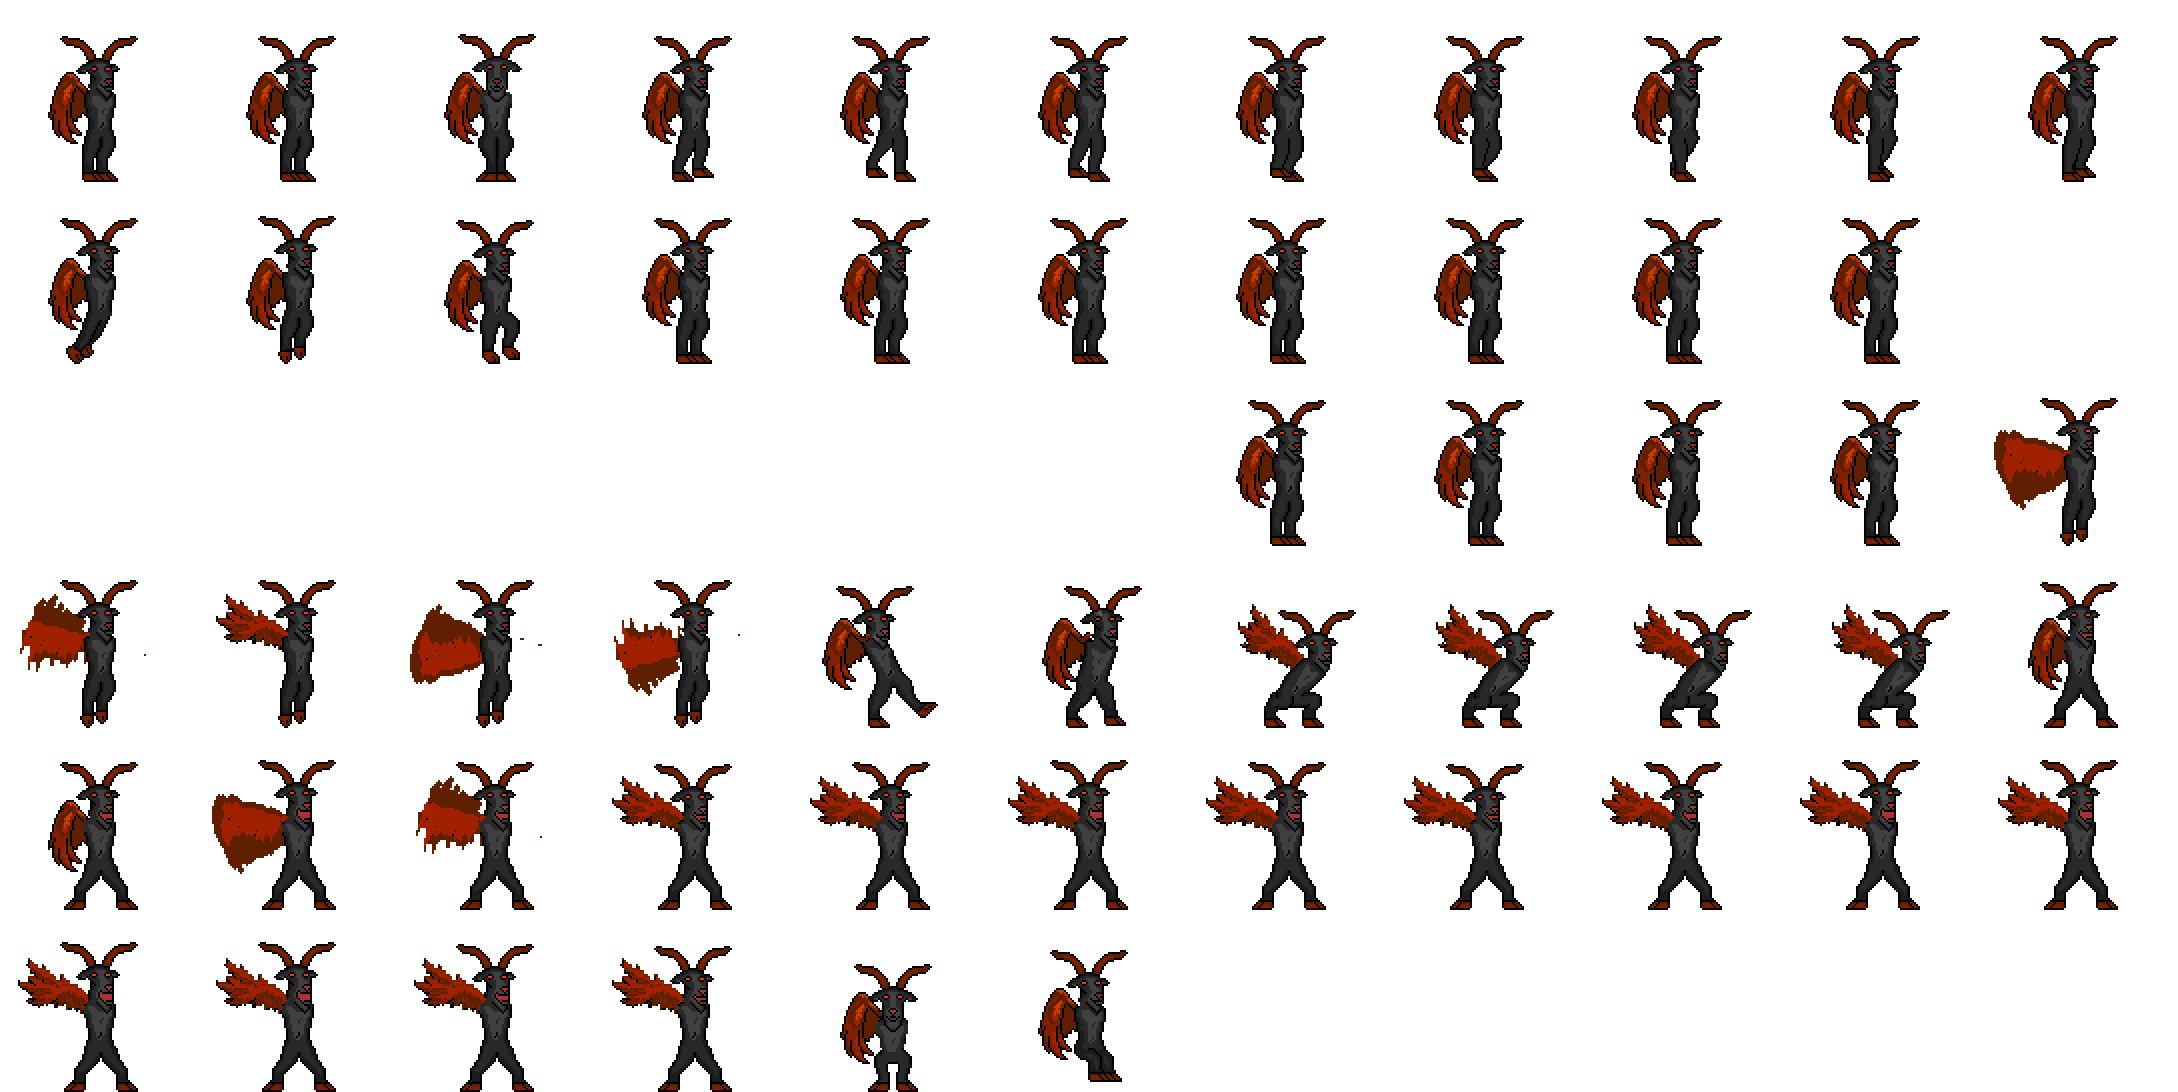
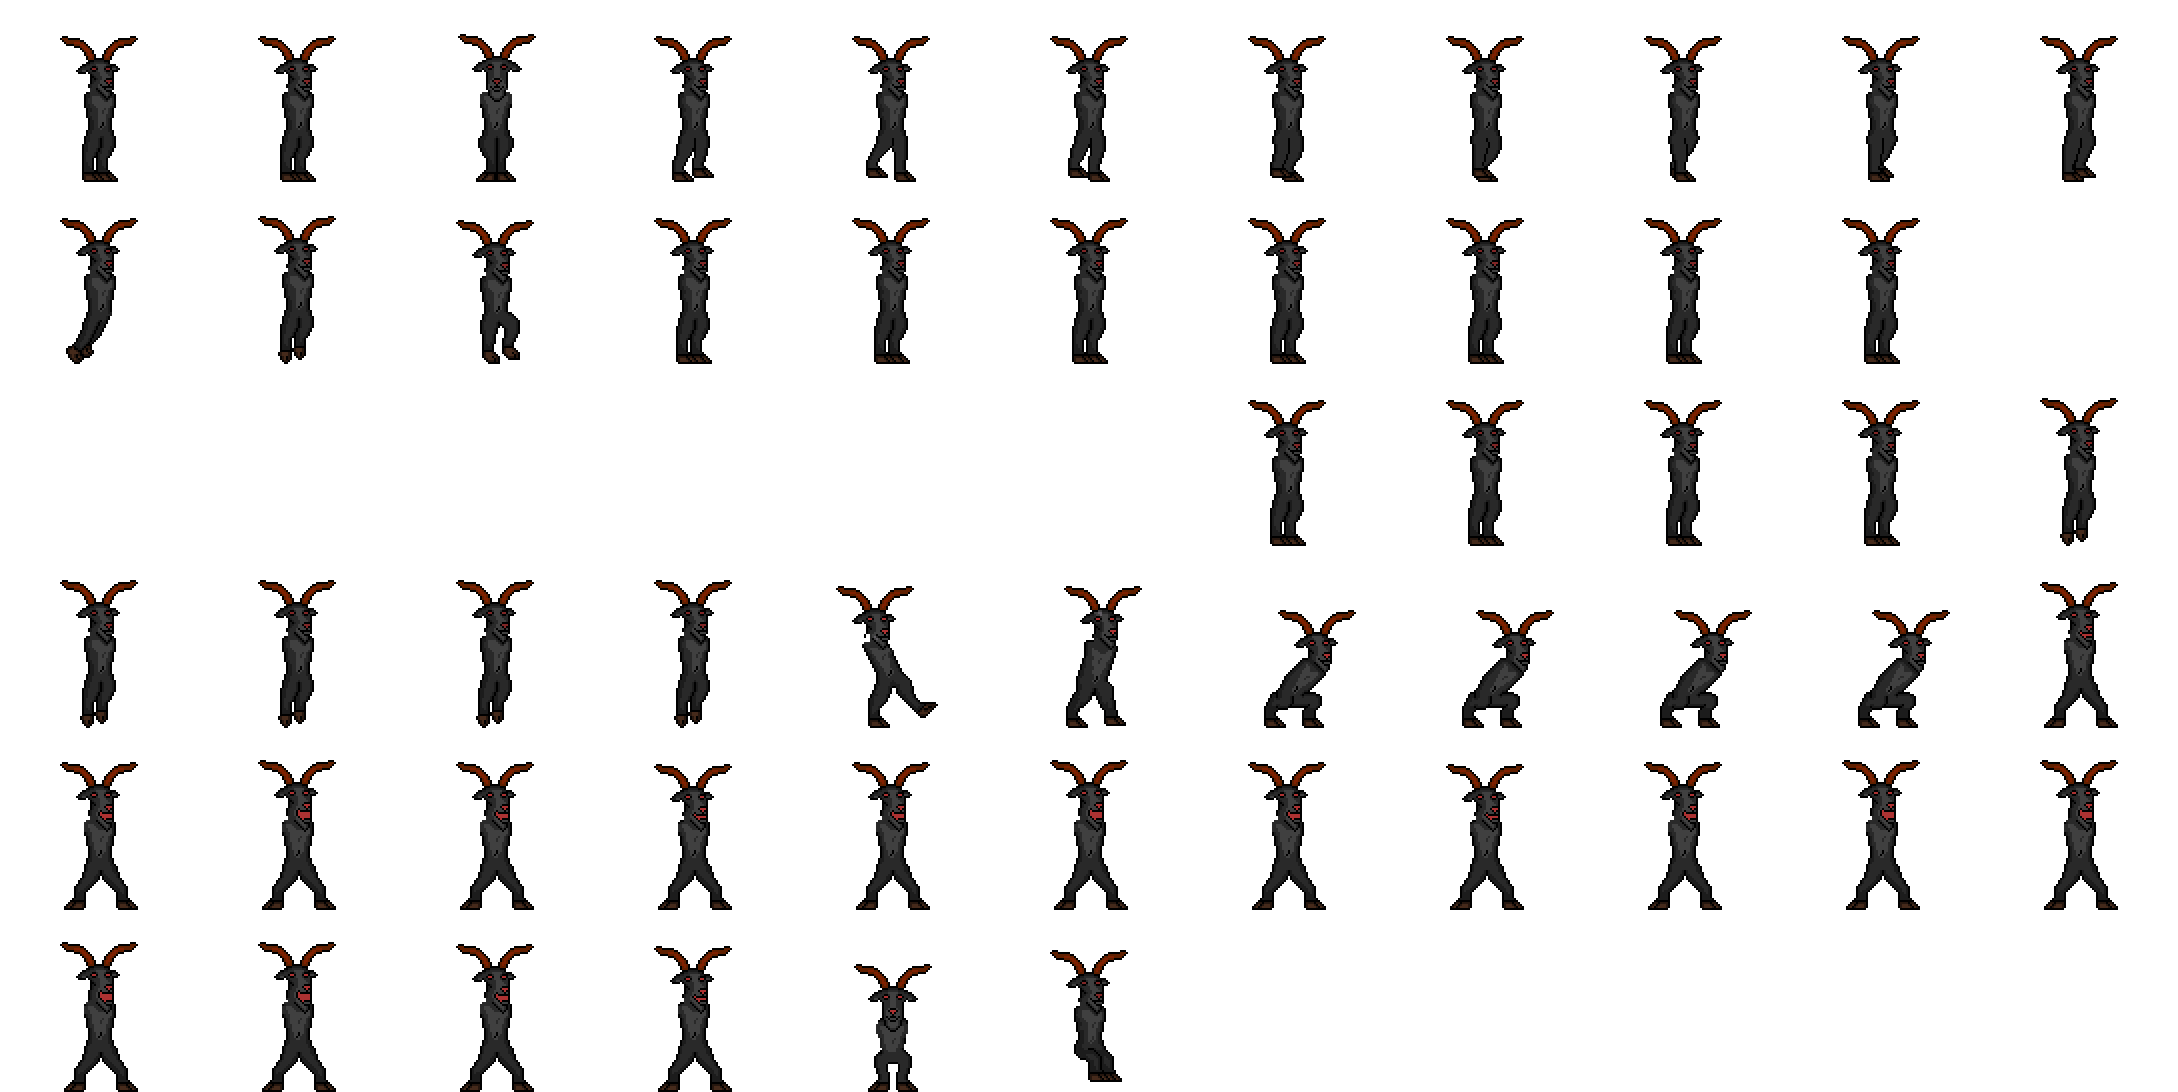
Changed Bapha's drawing scripts, and splitted his awakened glow effects from his body sprites. Fixed fire effect issue. He can now also hold items on his hand while doing animations.

diff --git a/Companions/Creatures/Bapha/BaphaBase.cs b/Companions/Creatures/Bapha/BaphaBase.cs
@@ -11,8 +11,10 @@ namespace giantsummon.Companions
     public class BaphaBase : GuardianBase
     {
         private const int DownedFrameID = 21, RevivingFrameID = 28;
-        private const string HellGateSpriteID = "hellgate", FireEffectsTextureID = "firefxs";
+        private const string HellGateSpriteID = "hellgate", FireEffectsTextureID = "firefxs", CrimsonFireEffectsTextureID = "crimfirefx";
         private const string RightWingTextureID = "rwing";
+        private const string AwakenedBodyTextureID = "aw_body", AwakenedBodyGlowTextureID = "aw_body_glow", AwakenedLeftArmGlowTextureID = "aw_leftarm", AwakenedRightArmGlowTextureID = "aw_rightarm", 
+            AwakenedBodyFrontGlowTextureID = "aw_bodyfront", AwakenedRightArmFrontGlowTextureID = "aw_rightarmfront", AwakenedWingRightTextureID = "aw_rwing";
         private const int HellGateAnimationFrameTime = 8;
         private const byte CrimsonFlameID = 0;
 
@@ -48,8 +50,8 @@ namespace giantsummon.Companions
             ReverseMount = false;
             DrinksBeverage = false;
             SpecialAttackBasedCombat = true;
-            UsesRightHandByDefault = true;
-            ForceWeaponUseOnMainHand = true;
+            //UsesRightHandByDefault = true;
+            //ForceWeaponUseOnMainHand = true;
             CompanionContributorName = "Smokey";
             SetTerraGuardian();
             VladimirBase.AddCarryBlacklist(Bapha);
@@ -134,12 +136,21 @@ namespace giantsummon.Companions
         {
             sprites.AddExtraTexture(HellGateSpriteID, "hell_gate");
             sprites.AddExtraTexture(RightWingTextureID, "wing_r");
-            sprites.AddExtraTexture(FireEffectsTextureID, "fire_effects");
+            sprites.AddExtraTexture(FireEffectsTextureID, "fire_and_despawn_effect");
+            sprites.AddExtraTexture(CrimsonFireEffectsTextureID, "crimson_fire");
+            //
+            sprites.AddExtraTexture(AwakenedBodyTextureID, "aw_body");
+            sprites.AddExtraTexture(AwakenedBodyGlowTextureID, "aw_body_glow");
+            sprites.AddExtraTexture(AwakenedLeftArmGlowTextureID, "aw_left_arm_glow");
+            sprites.AddExtraTexture(AwakenedRightArmGlowTextureID, "aw_right_arm_glow");
+            sprites.AddExtraTexture(AwakenedBodyFrontGlowTextureID, "aw_body_front_glow");
+            sprites.AddExtraTexture(AwakenedRightArmFrontGlowTextureID, "aw_right_arm_front_glow");
+            sprites.AddExtraTexture(AwakenedWingRightTextureID, "aw_wing_r");
         }
 
         public override void GuardianAnimationOverride(TerraGuardian guardian, byte BodyPartID, ref int Frame)
         {
-            if (guardian.SittingOnPlayerMount)
+            if (guardian.SittingOnPlayerMount || (BodyPartID == 1 && TerraGuardian.UsingLeftArmAnimation) || (BodyPartID == 2 && TerraGuardian.UsingRightArmAnimation))
                 return;
             if (guardian.Velocity.Y != 0 && guardian.WingMaxFlightTime == 0)
             {
@@ -227,9 +238,41 @@ namespace giantsummon.Companions
                     TerraGuardian.DrawFront.Add(gdd);
                 }
             }*/
-            gdd = new GuardianDrawData(GuardianDrawData.TextureType.TGExtra, sprites.GetExtraTexture(RightWingTextureID), DrawPosition, guardian.GetAnimationFrameRectangle(guardian.BodyAnimationFrame),
-                color, Rotation, Origin, Scale, seffect);
-            TerraGuardian.DrawBehind.Insert(0, gdd);
+            bool Awakened = false;
+            if (Awakened)
+            {
+                ReplaceTexture(GuardianDrawData.TextureType.TGBody, sprites.GetExtraTexture(AwakenedBodyTextureID));
+                gdd = new GuardianDrawData(GuardianDrawData.TextureType.TGExtra, sprites.GetExtraTexture(AwakenedBodyGlowTextureID), DrawPosition,
+                    guardian.GetAnimationFrameRectangle(guardian.BodyAnimationFrame), Color.White, Rotation, Origin, Scale, seffect);
+                InjectTextureAfter(GuardianDrawData.TextureType.TGBody, gdd);
+                gdd = new GuardianDrawData(GuardianDrawData.TextureType.TGExtra, sprites.GetExtraTexture(AwakenedLeftArmGlowTextureID), DrawPosition, 
+                    guardian.GetAnimationFrameRectangle(guardian.LeftArmAnimationFrame),  Color.White, Rotation, Origin, Scale, seffect);
+                InjectTextureAfter(GuardianDrawData.TextureType.TGLeftArm, gdd);
+                gdd = new GuardianDrawData(GuardianDrawData.TextureType.TGExtra, sprites.GetExtraTexture(AwakenedRightArmGlowTextureID), DrawPosition,
+                    guardian.GetAnimationFrameRectangle(guardian.RightArmAnimationFrame), Color.White, Rotation, Origin, Scale, seffect);
+                InjectTextureAfter(GuardianDrawData.TextureType.TGRightArm, gdd);
+                if (guardian.Base.BodyFrontFrameSwap.ContainsKey(guardian.BodyAnimationFrame))
+                {
+                    gdd = new GuardianDrawData(GuardianDrawData.TextureType.TGExtra, sprites.GetExtraTexture(AwakenedBodyFrontGlowTextureID), DrawPosition,
+                        guardian.GetAnimationFrameRectangle(guardian.Base.BodyFrontFrameSwap[guardian.BodyAnimationFrame]), Color.White, Rotation, Origin, Scale, seffect);
+                    InjectTextureAfter(GuardianDrawData.TextureType.TGBodyFront, gdd);
+                }
+                if (guardian.Base.RightArmFrontFrameSwap.ContainsKey(guardian.RightArmAnimationFrame))
+                {
+                    gdd = new GuardianDrawData(GuardianDrawData.TextureType.TGExtra, sprites.GetExtraTexture(AwakenedRightArmFrontGlowTextureID), DrawPosition,
+                        guardian.GetAnimationFrameRectangle(guardian.Base.RightArmFrontFrameSwap[guardian.RightArmAnimationFrame]), Color.White, Rotation, Origin, Scale, seffect);
+                    InjectTextureAfter(GuardianDrawData.TextureType.TGRightArmFront, gdd);
+                }
+                gdd = new GuardianDrawData(GuardianDrawData.TextureType.TGExtra, sprites.GetExtraTexture(AwakenedWingRightTextureID), DrawPosition, guardian.GetAnimationFrameRectangle(guardian.BodyAnimationFrame),
+                    Color.White, Rotation, Origin, Scale, seffect);
+                TerraGuardian.DrawBehind.Insert(0, gdd);
+            }
+            else
+            {
+                gdd = new GuardianDrawData(GuardianDrawData.TextureType.TGExtra, sprites.GetExtraTexture(RightWingTextureID), DrawPosition, guardian.GetAnimationFrameRectangle(guardian.BodyAnimationFrame),
+                    color, Rotation, Origin, Scale, seffect);
+                TerraGuardian.DrawBehind.Insert(0, gdd);
+            }
             byte FlamesEffect = 255;
             if(guardian.KnockedOut && guardian.BodyAnimationFrame == 28)
             {
@@ -237,13 +280,13 @@ namespace giantsummon.Companions
                 TerraGuardian.DrawBehind.Clear();
                 return;
             }
-            if (guardian.BodyAnimationFrame >= 14 && guardian.BodyAnimationFrame < 18)
+            if (guardian.LeftArmAnimationFrame >= 14 && guardian.LeftArmAnimationFrame < 18)
             {
-                FlamesEffect = (byte)(guardian.BodyAnimationFrame - 14);
+                FlamesEffect = (byte)(guardian.LeftArmAnimationFrame - 14);
             }
             else if (guardian.BodyAnimationFrame >= 28 && guardian.BodyAnimationFrame < 33)
             {
-                FlamesEffect = (byte)(guardian.BodyAnimationFrame - 28 + 10);
+                FlamesEffect = (byte)(guardian.LeftArmAnimationFrame - 28 + 10);
             }
             else if (guardian.BodyAnimationFrame >= 21 && guardian.BodyAnimationFrame < 29)
             {
@@ -251,8 +294,8 @@ namespace giantsummon.Companions
             }
             if(FlamesEffect < 255)
             {
-                gdd = new GuardianDrawData(GuardianDrawData.TextureType.TGExtra, sprites.GetExtraTexture(FireEffectsTextureID), DrawPosition, guardian.GetAnimationFrameRectangle(FlamesEffect),
-                    Color.White, Rotation, Origin, Scale, seffect);
+                gdd = new GuardianDrawData(GuardianDrawData.TextureType.TGExtra, sprites.GetExtraTexture(Awakened && FlamesEffect < 4 ? CrimsonFireEffectsTextureID : FireEffectsTextureID), DrawPosition, 
+                    guardian.GetAnimationFrameRectangle(FlamesEffect), Color.White, Rotation, Origin, Scale, seffect);
                 InjectTextureAfter(GuardianDrawData.TextureType.TGLeftArm, gdd);
             }
         }

diff --git a/Companions/Creatures/Bapha/FireballAttack.cs b/Companions/Creatures/Bapha/FireballAttack.cs
@@ -26,6 +26,11 @@ namespace giantsummon.Companions.Bapha
 
         public override void Update(TerraGuardian tg, GuardianSpecialAttackData data)
         {
+            tg.ShowOffHand = false;
+            if(data.Step < 4)
+            {
+                Lighting.AddLight(tg.CenterPosition, Vector3.One);
+            }
             if (data.FirstFrame)
             {
                 if (data.Step == 4)
@@ -39,9 +44,11 @@ namespace giantsummon.Companions.Bapha
                     if (ArmAngle < -0.75f)
                         FrameID = 0;
                     else if (ArmAngle > 0.6f)
-                        FrameID = 2;
-                    else
+                        FrameID = 3;
+                    else if (ArmAngle >= -0.2f)
                         FrameID = 1;
+                    else
+                        FrameID = 2;
                     //
                     int BackupFrame = tg.LeftArmAnimationFrame;
                     tg.LeftArmAnimationFrame = 17 + FrameID;

diff --git a/GuardianBase.cs b/GuardianBase.cs
@@ -1265,7 +1265,7 @@ namespace giantsummon
             }*/
         }
 
-        public void ReplaceTexture(GuardianDrawData.TextureType textureType, Microsoft.Xna.Framework.Graphics.Texture2D texture)
+        public void ReplaceTexture(GuardianDrawData.TextureType textureType, Microsoft.Xna.Framework.Graphics.Texture2D texture, Color? replaceColor = null)
         {
             for(byte sprite = 0; sprite < 2; sprite++)
             {
@@ -1279,6 +1279,8 @@ namespace giantsummon
                     if(gdd.textureType == textureType)
                     {
                         gdd.Texture = texture;
+                        if (replaceColor.HasValue)
+                            gdd.color = replaceColor.Value;
                     }
                 }
             }
